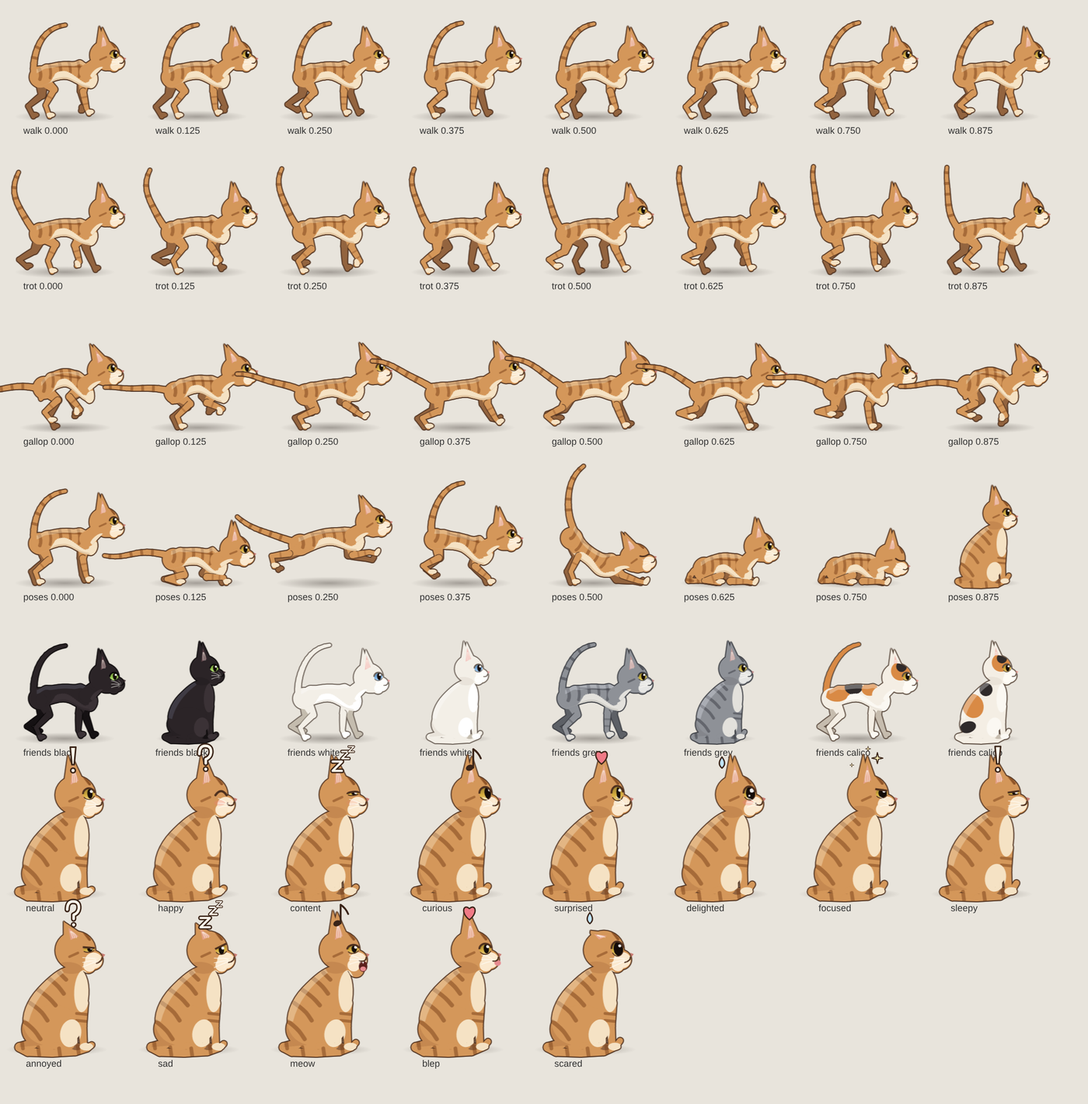
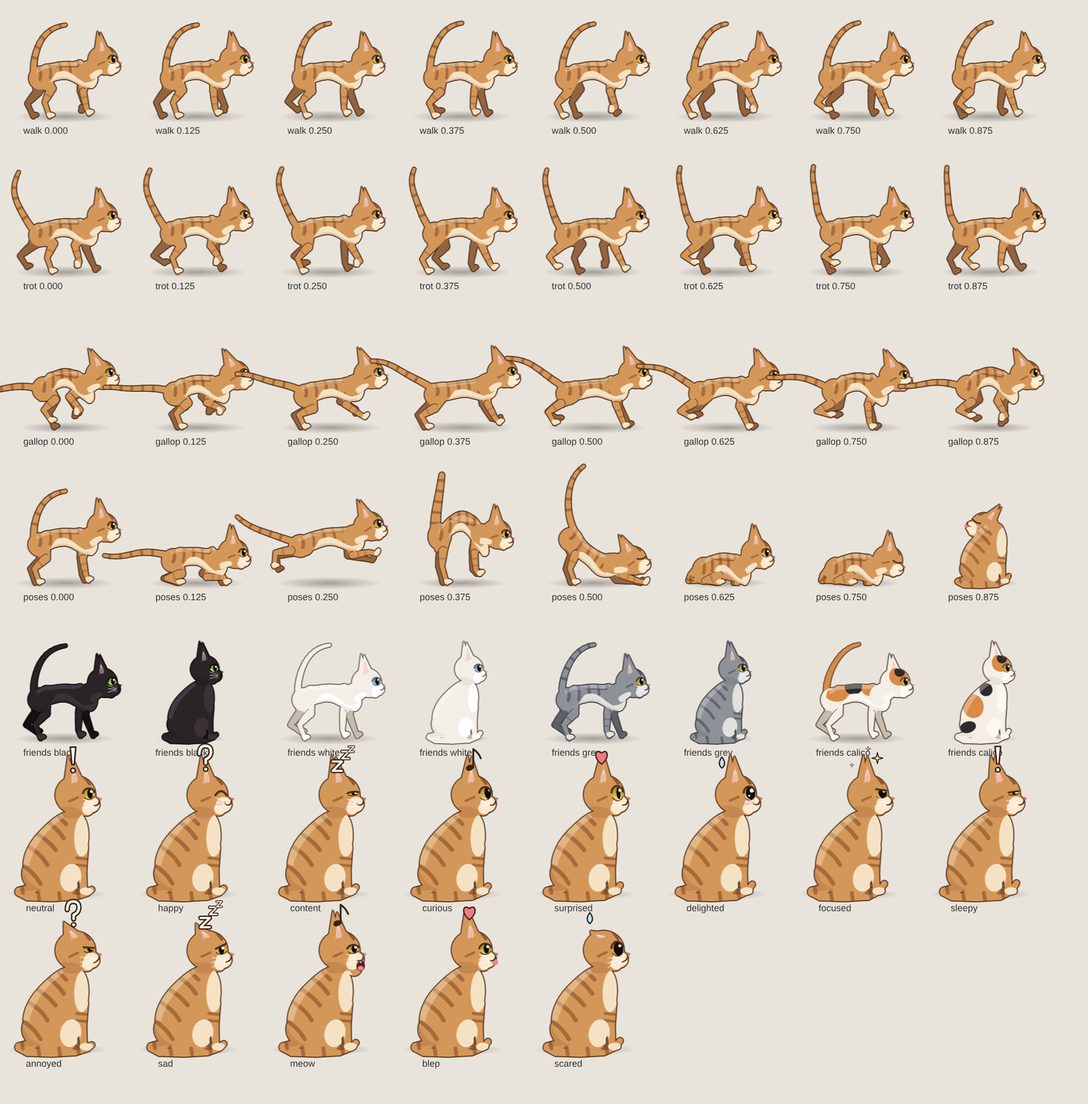
Cat: natural hind leg (knee tucked, high hock), head on the shoulders, no cheek tufts; tucked-paw loaf and grooming
- Hind leg: thigh 17.5 painted with the body, shin 19, hock ~17.5 up with a
  near-vertical metatarsal, slightly bigger haunch; no more bird-like Z leg.
- Head sits 20% closer to the withers (headPos3), thicker neck.
- Head model: cheek fur tufts removed, smaller muzzle/chin, features moved in.
- LOAFT3/SLEEPT3: loaf with the front paws folded under the chest (Qimei, ending).
- groom3(): head turns back over the shoulder (turn up to 2) and licks the flank
  (Alishan, Sun Moon Lake, Shengxing interlude).

Claude-Session: https://claude.ai/code/session_01VPbtjPGy5UqvDX4Qc8aXKN

diff --git a/src/cat3.js b/src/cat3.js
@@ -28,6 +28,9 @@ const LOAF3 = { ...STAND3, g: 1.12, hip: [-30, -17], sh: [24, -19], arch: 5, hea
 const SCARED3 = { ...STAND3, g: 1.14, hip: [-28, -60], sh: [26, -58], arch: 15, head: [50, -60], hr: 0.12, fn: [24, 0, -0.3], ff: [18, 0, -0.3], hn: [-22, 0, 0], hf: [-28, 0, 0], tail: [-1.62, 0.02, 0.03, 9, 0], tailW: 1.7, sb: 1, hb: 1 };
 /* reared up on the hind legs, forepaws raised */
 const REAR3 = { ...STAND3, hip: [-24, -40], sh: [10, -84], arch: -3, head: [26, -108], hr: -0.35, fn: [40, -112, -1], ff: [34, -104, -1], hn: [-14, 0, 0.9], hf: [-20, 0, 0.9], tail: [-2.8, -0.12, 0.08, 3, 0], sb: 1, hb: 1 };
+/* loaf with the front paws folded under the chest (香箱座り) */
+const LOAFT3 = { ...LOAF3, g: 1.14, sh: [22, -18], head: [44, -40], fn: [14, 0, 1], ff: [10, 0, 1], tuck: 1 };
+const SLEEPT3 = { ...LOAFT3, head: [42, -30], hr: 0.25, eye: 0, ear: 0.15, tail: [2.95, -0.36, 0.03, 0.7, 1] };
 const SLEEP3 = { ...LOAF3, head: [44, -28], hr: 0.25, eye: 0, ear: 0.15, tail: [2.95, -0.36, 0.03, 0.7, 1] };
 
 /* Walk (lateral sequence) and trot (diagonal pairs). Stance feet move back at exactly the body speed (walkCyc3), so
@@ -87,7 +90,9 @@ function gallopPose3(cyc) {
 function gallopCyc3(dist, s) { return dist / (GLC * s * SPX); }
 /* rig poses are authored long; they are drawn compressed along x by SPX for a compact, cat-like torso */
 const SPX = 0.86;
-function squashX(p) { if (p.sit) return p; const q = { ...p }; ['hip', 'sh', 'head'].forEach(k => q[k] = [p[k][0] * SPX, p[k][1]]); ['fn', 'ff', 'hn', 'hf'].forEach(k => q[k] = [p[k][0] * SPX, p[k][1], p[k][2]]); return q; }
+/* the head sits low on the shoulders (no giraffe neck): 20% closer to the withers than authored */
+function headPos3(p) { const sx = p.sh[0] * SPX, hx = p.head[0] * SPX; return [lerp(sx, hx, 0.8) + 2, lerp(p.sh[1], p.head[1], 0.8) + 2]; }
+function squashX(p) { if (p.sit) return p; const q = { ...p }; ['hip', 'sh'].forEach(k => q[k] = [p[k][0] * SPX, p[k][1]]); q.head = headPos3(p); ['fn', 'ff', 'hn', 'hf'].forEach(k => q[k] = [p[k][0] * SPX, p[k][1], p[k][2]]); return q; }
 
 function bodyGeom3(p) {
   const H = p.hip, Sh = p.sh, dx = Sh[0] - H[0], dy = Sh[1] - H[1], L = Math.hypot(dx, dy), t = [dx / L, dy / L], n = [t[1], -t[0]];
@@ -121,15 +126,15 @@ function fore3(B, tg, part = 3) {
 }
 function hind3(B, tg, part = 3) {
   const f = tg[2], toe = [tg[0], tg[1]];
-  const off = f <= 1 ? lp([-5, -14], [-12, -8], clamp(f)) : lp([-12, -8], [-19, -3], clamp(f - 1));
+  const off = f <= 1 ? lp([-6, -17.5], [-13, -10], clamp(f)) : lp([-13, -10], [-19, -3], clamp(f - 1));
   const root = [B.H[0] - B.t[0] * 1 - B.n[0] * 3, B.H[1] - B.t[1] * 1 - B.n[1] * 3];
-  const hk = reach(root, [toe[0] + off[0], toe[1] + off[1]], 42), kn = ik(root, hk, 20.5, 22, 1);
-  if (part & 1) limbSeg(root, kn, 14, 8.8, 1.5);
-  if (part & 2) { limbSeg(kn, hk, 7.4, 5.2, 1); taper(hk, toe, 5.2, 4.9); c.beginPath(); c.ellipse(toe[0] + 1.5, toe[1] - 2.1, 5.1, 2.8, 0, 0, TAU); c.fill(); }
+  const hk = reach(root, [toe[0] + off[0], toe[1] + off[1]], 36.4), kn = ik(root, hk, 17.5, 19, 1);
+  if (part & 1) limbSeg(root, kn, 22, 10.5, 3);
+  if (part & 2) { limbSeg(kn, hk, 9.5, 5.6, 2.2); taper(hk, toe, 5.4, 4.8); c.beginPath(); c.ellipse(toe[0] + 1.5, toe[1] - 2.1, 5.1, 2.8, 0, 0, TAU); c.fill(); }
   return { root, kn, hk, toe };
 }
-function hind3Geom(B, tg) { const f = tg[2], toe = [tg[0], tg[1]], off = f <= 1 ? lp([-5, -14], [-12, -8], clamp(f)) : lp([-12, -8], [-19, -3], clamp(f - 1));
-  const root = [B.H[0] - B.t[0] * 1 - B.n[0] * 3, B.H[1] - B.t[1] * 1 - B.n[1] * 3], hk = reach(root, [toe[0] + off[0], toe[1] + off[1]], 42); return { root, kn: ik(root, hk, 20.5, 22, 1), hk }; }
+function hind3Geom(B, tg) { const f = tg[2], toe = [tg[0], tg[1]], off = f <= 1 ? lp([-6, -17.5], [-13, -10], clamp(f)) : lp([-13, -10], [-19, -3], clamp(f - 1));
+  const root = [B.H[0] - B.t[0] * 1 - B.n[0] * 3, B.H[1] - B.t[1] * 1 - B.n[1] * 3], hk = reach(root, [toe[0] + off[0], toe[1] + off[1]], 36.4); return { root, kn: ik(root, hk, 17.5, 19, 1), hk }; }
 function tail3(B, p) {
   const [ba, curl, amp, fq, ground] = p.tail, base = B.at(-0.18, 6), pts = [base], ph = p.tailPh != null ? p.tailPh : T * fq; let a = ba;
   for (let k = 0; k < 12; k++) { a += curl + amp * Math.sin(ph - k * 0.55) * (0.3 + k / 12); const q = pts[pts.length - 1]; let nx = q[0] + Math.cos(a) * 6.6, ny = q[1] + Math.sin(a) * 6.6; if (ground) ny = Math.min(ny, -3); pts.push([nx, ny]); }
@@ -140,7 +145,7 @@ function tail3(B, p) {
    pose.turn = 0 → profile (looking along the body, +x), 1 → facing the camera. Head coords: x = across the face
    (viewer's right when facing the camera), y down, z forward (nose). Units match the old profile head. */
 function headView(p) {
-  const tn = clamp(p.turn || 0), ph = (1 - tn) * 0.45 * Math.PI, cs = Math.cos(ph), sn = Math.sin(ph);
+  const tn = clamp(p.turn || 0, 0, 2), ph = (1 - tn) * 0.45 * Math.PI, cs = Math.cos(ph), sn = Math.sin(ph);
   return { tn, cs, sn, pr: (x, y, z) => [z * sn + x * cs, y], d: (x, z) => z * cs - x * sn };
 }
 /* ear triangle for side s (±1): ear > 0 swivels back, < 0 pricks forward; earDown flattens it sideways */
@@ -154,11 +159,10 @@ function earGeo(H, p, s) {
 function headPath(H, p) {
   const sk = H.pr(0, -2, 0), w = Math.hypot(12 * H.cs, 11.5 * H.sn);
   c.beginPath(); c.ellipse(sk[0], sk[1], w, 11, 0, 0, TAU);
-  [-1, 1].forEach(s => { const q = H.pr(s * 8, 3.4, 2.4); c.moveTo(q[0] + 6.6, q[1]); c.arc(q[0], q[1], 6.6, 0, TAU);
-    const t1 = H.pr(s * 14.2, 4.6, -0.5), t2 = H.pr(s * 11.4, 0.6, 1.2), t3 = H.pr(s * 11.8, 8.4, 0.8); c.moveTo(t1[0], t1[1]); c.lineTo(t2[0], t2[1]); c.lineTo(t3[0], t3[1]); c.closePath(); });
-  const mz = H.pr(0, 3.6, 10.2), ch = H.pr(0, 6.8, 7.6);
-  c.moveTo(mz[0] + 5.6, mz[1]); c.arc(mz[0], mz[1], 5.6, 0, TAU); c.moveTo(ch[0] + 4.2, ch[1]); c.arc(ch[0], ch[1], 4.2, 0, TAU);
-  if ((p.mouth || 0) > 0.05) { const j = H.pr(0, 6.4 + 3.6 * p.mouth, 9.6); c.moveTo(j[0] + 4.4, j[1]); c.arc(j[0], j[1], 4.4, 0, TAU); }
+  [-1, 1].forEach(s => { const q = H.pr(s * 7.6, 3.2, 2.6); c.moveTo(q[0] + 6.4, q[1]); c.arc(q[0], q[1], 6.4, 0, TAU); });
+  const mz = H.pr(0, 3.3, 9), ch = H.pr(0, 6.2, 6.6);
+  c.moveTo(mz[0] + 5, mz[1]); c.arc(mz[0], mz[1], 5, 0, TAU); c.moveTo(ch[0] + 3.8, ch[1]); c.arc(ch[0], ch[1], 3.8, 0, TAU);
+  if ((p.mouth || 0) > 0.05) { const j = H.pr(0, 5.8 + 3.6 * p.mouth, 8.4); c.moveTo(j[0] + 4.2, j[1]); c.arc(j[0], j[1], 4.2, 0, TAU); }
 }
 function headSil(p, P, hd, sc) {
   const H = headView(p);
@@ -178,18 +182,19 @@ function drawRig(p, P, k, fx) {
   if (P.stripe) { c.save(); c.globalCompositeOperation = 'source-atop'; c.strokeStyle = P.stripe; c.lineCap = 'round'; c.lineWidth = 3.4;
     for (let j = 3; j < tp.length - 1; j += 2) { const q = tp[j], r = tp[j + 1], nx = -(r[1] - q[1]), ny = r[0] - q[0], l = Math.hypot(nx, ny) || 1; c.beginPath(); c.moveTo(q[0] + nx / l * 5, q[1] + ny / l * 5); c.lineTo(q[0] - nx / l * 5, q[1] - ny / l * 5); c.stroke(); }
     c.restore(); }
+  if (p.tuck > 0.5) { c.fillStyle = P.base; fore3(B, p.fn, 2); }
   c.fillStyle = P.base; smoothClosed(B.pts); c.fill();
   // the haunch belongs to the body silhouette: a rounded rump that follows the near thigh, no separate outline
   const hk0 = hind3Geom(B, p.hn), ha = Math.atan2(B.t[1], B.t[0]), sw = [(hk0.kn[0] - hk0.root[0]) * 0.12, (hk0.kn[1] - hk0.root[1]) * 0.08];
-  const hc = [B.H[0] - B.t[0] * 4 + sw[0], B.H[1] - B.t[1] * 4 + sw[1]];
-  const haunch = () => { c.beginPath(); c.ellipse(hc[0], hc[1], 13.5, 13.2 * (p.g || 1), ha, 0, TAU); };
+  const hc = [B.H[0] - B.t[0] * 4 - B.n[0] * 1.5 + sw[0], B.H[1] - B.t[1] * 4 - B.n[1] * 1.5 + sw[1]];
+  const haunch = () => { c.beginPath(); c.ellipse(hc[0], hc[1], 14, 14.2 * (p.g || 1), ha, 0, TAU); };
   haunch(); c.fill(); hind3(B, p.hn, 1); fore3(B, p.fn, 1);
   c.save(); smoothClosed(B.pts); c.clip(); shadeBody3(B, p, P); c.restore();
   // near legs on their own layer
   const g3 = CB3.getContext('2d'); g3.setTransform(1, 0, 0, 1, 0, 0); g3.globalCompositeOperation = 'source-over'; g3.clearRect(0, 0, CBW, CBH); g3.setTransform(k * fx, 0, 0, k, COX, COY);
   c = g3; c.fillStyle = P.base;
   const hl = hind3(B, p.hn, 2);
-  const fl = fore3(B, p.fn, 2);
+  const fl = p.tuck > 0.5 ? fore3(B, p.fn, 0) : fore3(B, p.fn, 2);
   shadeLegs3(B, hl, fl, p, P);
   // inner contour: ring around the near lower legs, kept only where they cross a far leg (never against the body)
   const g4 = CB4.getContext('2d'), iw = Math.max(0.8, 0.95 * S);
@@ -201,11 +206,11 @@ function drawRig(p, P, k, fx) {
   c = main; c.save(); c.setTransform(1, 0, 0, 1, 0, 0); c.drawImage(CB4, 0, 0); c.drawImage(CB3, 0, 0); c.restore();
   // neck + head
   const nb = B.at(1.0, 2), hd = p.head, ne = [lerp(nb[0], hd[0], 0.8), lerp(nb[1], hd[1], 0.8)];
-  c.fillStyle = P.base; taper(nb, ne, 19, 15);
+  c.fillStyle = P.base; taper(nb, ne, 25, 21);
   headSil(p, P, hd, HSR);
   // cream throat, clipped to the neck
   c.save(); const dx = ne[0] - nb[0], dy = ne[1] - nb[1], L = Math.hypot(dx, dy) || 1, nx = -dy / L, ny = dx / L;
-  c.beginPath(); c.moveTo(nb[0] + nx * 9.5, nb[1] + ny * 9.5); c.lineTo(ne[0] + nx * 7.5, ne[1] + ny * 7.5); c.lineTo(ne[0] - nx * 7.5, ne[1] - ny * 7.5); c.lineTo(nb[0] - nx * 9.5, nb[1] - ny * 9.5); c.closePath(); c.clip();
+  c.beginPath(); c.moveTo(nb[0] + nx * 12.5, nb[1] + ny * 12.5); c.lineTo(ne[0] + nx * 10.5, ne[1] + ny * 10.5); c.lineTo(ne[0] - nx * 10.5, ne[1] - ny * 10.5); c.lineTo(nb[0] - nx * 12.5, nb[1] - ny * 12.5); c.closePath(); c.clip();
   c.fillStyle = P.cream; const tq = [lerp(nb[0], ne[0], 0.4) + nx * 8, lerp(nb[1], ne[1], 0.4) + ny * 8]; c.beginPath(); c.ellipse(tq[0], tq[1], 10, 4, Math.atan2(dy, dx), 0, TAU); c.fill();
   c.restore();
   return { B, tp, hl, fl };
@@ -257,7 +262,8 @@ function silSit(p, P) {
   if (p.paw) { const sh0 = [14, -40], W2 = reach(sh0, [p.paw[0], p.paw[1]], 36), el = ik(sh0, W2, 17, 19, p.paw[1] < -40 ? 1 : -1); taper(sh0, el, 11, 7.5); taper(el, W2, 7.5, 6); c.beginPath(); c.ellipse(W2[0] + 1, W2[1], 5.4, 3.6, -0.6, 0, TAU); c.fill(); pawPt = W2; }
   else { taper([14, -40], [14, -20], 10, 7); taper([14, -20], [15, -4], 7, 6); c.beginPath(); c.ellipse(17, -2.5, 5.4, 3.1, 0, 0, TAU); c.fill(); }
   c.beginPath(); c.ellipse(-3, -3, 10, 3.8, 0, 0, TAU); c.fill();
-  const hd = [8, -82 - br];
+  const hd = [8 + (p.hdx || 0), -82 - br + (p.hdy || 0)];
+  if (p.hdx || p.hdy) { taper([6, -64], [lerp(8, hd[0], 0.7), lerp(-70, hd[1], 0.7)], 20, 16); }
   headSil(p, P, hd, HSS);
   return { body, hd, pawPt };
 }
@@ -339,31 +345,31 @@ function face3(P, p, sil) {
     if (P.stripe) { c.strokeStyle = P.stripe; c.lineCap = 'round'; c.lineWidth = 1.4;
       [-1, 0, 1].forEach(k => { if (H.d(k * 2.4, 7) < -1) return; const a = H.pr(k * 2.7, -12.4, 5.2), b = H.pr(k * 2.1, -8.2, 8.4); c.beginPath(); c.moveTo(a[0], a[1]); c.lineTo(b[0], b[1]); c.stroke(); });
       [-1, 1].forEach(s => { if (H.d(s, 0.2) < 0) return; const a = H.pr(s * 9.6, -0.6, 3), b = H.pr(s * 12.2, 1.6, -1.5); c.beginPath(); c.moveTo(a[0], a[1]); c.lineTo(b[0], b[1]); c.stroke(); }); }
-    const mz = H.pr(0, 3.8, 10.6), ch = H.pr(0, 6.6, 8.2); c.fillStyle = P.belly; c.beginPath(); c.ellipse(mz[0], mz[1], 5.2 * (0.8 + 0.2 * front) + 0.6, 4.6, 0, 0, TAU); c.moveTo(ch[0] + 3.6, ch[1]); c.arc(ch[0], ch[1], 3.6, 0, TAU); c.fill();
-    if (q.blush > 0) [-1, 1].forEach(s => { if (H.d(s * 0.6, 0.8) <= 0) return; const b = H.pr(s * 7.2, 2.6, 8.2); c.fillStyle = `rgba(240,120,120,${0.42 * q.blush})`; c.beginPath(); c.ellipse(b[0], b[1], 3.6 * (0.5 + 0.5 * clamp(H.d(s * 0.6, 0.8))), 1.6, 0, 0, TAU); c.fill(); });
+    const mz = H.pr(0, 3.5, 9.4), ch = H.pr(0, 6, 7.2); c.fillStyle = P.belly; c.beginPath(); c.ellipse(mz[0], mz[1], 4.8 * (0.8 + 0.2 * front) + 0.5, 4.2, 0, 0, TAU); c.moveTo(ch[0] + 3.3, ch[1]); c.arc(ch[0], ch[1], 3.3, 0, TAU); c.fill();
+    if (q.blush > 0) [-1, 1].forEach(s => { if (H.d(s * 0.6, 0.8) <= 0) return; const b = H.pr(s * 7, 2.6, 7.6); c.fillStyle = `rgba(240,120,120,${0.42 * q.blush})`; c.beginPath(); c.ellipse(b[0], b[1], 3.6 * (0.5 + 0.5 * clamp(H.d(s * 0.6, 0.8))), 1.6, 0, 0, TAU); c.fill(); });
     c.restore();
   }
   // eyes
-  const N = H.pr(0, 1.1, 15.6);
+  const N = H.pr(0, 0.8, 13.9);
   [-1, 1].forEach(s => { const fw = H.d(s * 0.55, 0.83); if (fw < 0.05) return; const E = H.pr(s * 5.4, -2.6, 8.7), inner = N[0] >= E[0] ? 1 : -1;
     eye3(E[0], E[1], 3.9 * ES * (0.3 + 0.7 * fw), 2.9 * ES, inner, q, P, sil, H); });
   // mouth (open)
-  if (m > 0.05) { const Mo = H.pr(0, 5.6 + 2.2 * m, 13.6), rx = lerp(2.2, 3.8, front), ry = 0.8 + 3.2 * m;
+  if (m > 0.05) { const Mo = H.pr(0, 5.2 + 2.2 * m, 12.2), rx = lerp(2.2, 3.8, front), ry = 0.8 + 3.2 * m;
     c.fillStyle = '#5a1f1c'; c.beginPath(); c.ellipse(Mo[0], Mo[1], rx, ry, 0, 0, TAU); c.fill();
     c.fillStyle = '#e58a8f'; c.beginPath(); c.ellipse(Mo[0], Mo[1] + ry * 0.45, rx * 0.68, ry * 0.42, 0, 0, TAU); c.fill();
     c.fillStyle = '#ffffff'; [-1, 1].forEach(s => { if (front < 0.3 && s < 0) return; const fx = Mo[0] + s * rx * 0.55 * (front < 0.3 ? 0 : 1); poly([[fx - 0.6, Mo[1] - ry * 0.85], [fx + 0.6, Mo[1] - ry * 0.85], [fx, Mo[1] - ry * 0.4]], '#ffffff'); }); }
-  if (q.tongue > 0) { const tg = H.pr(0, 4.8 + q.tongue, 15); c.fillStyle = '#e58a8f'; c.beginPath(); c.ellipse(tg[0], tg[1], 1.3 + q.tongue * 1.1, 1.2 + q.tongue * 0.9, 0.3 * (1 - front), 0, TAU); c.fill(); }
+  if (q.tongue > 0) { const tg = H.pr(0, 4.4 + q.tongue, 13.4); c.fillStyle = '#e58a8f'; c.beginPath(); c.ellipse(tg[0], tg[1], 1.3 + q.tongue * 1.1, 1.2 + q.tongue * 0.9, 0.3 * (1 - front), 0, TAU); c.fill(); }
   // nose: profile wedge ↔ front inverted triangle
   const ns = lp([[-0.2, -1.6], [1.6, -0.6], [0.6, 1]], [[-1.9, -1.2], [1.9, -1.2], [0, 1]], front);
   poly(ns.map(v => [N[0] + v[0], N[1] + v[1]]), P.nose);
   // mouth line: philtrum + the two halves of the 'ω' (smile curls the corners up, frown pulls them down)
   c.strokeStyle = P.line; c.lineWidth = 0.75; c.lineCap = 'round';
-  const nb = H.pr(0, 2.2, 15.4), ph = H.pr(0, 3.4, 15.1); c.beginPath(); c.moveTo(nb[0], nb[1]); c.lineTo(ph[0], ph[1]); c.stroke();
-  [-1, 1].forEach(s => { if (H.d(s * 3.6, 13) < -1.4) return; const cp = H.pr(s * 1.6, 4.6, 14.4), en = H.pr(s * 3.7, 4.3 + q.frown * 1.4 - q.smile * 0.4, 12.8), cu = H.pr(s * 4.6, 3.2 + q.frown * 2, 12.2);
+  const nb = H.pr(0, 1.9, 13.7), ph = H.pr(0, 3.1, 13.4); c.beginPath(); c.moveTo(nb[0], nb[1]); c.lineTo(ph[0], ph[1]); c.stroke();
+  [-1, 1].forEach(s => { if (H.d(s * 3.6, 11.5) < -1.4) return; const cp = H.pr(s * 1.6, 4.3, 12.8), en = H.pr(s * 3.6, 4 + q.frown * 1.4 - q.smile * 0.4, 11.3), cu = H.pr(s * 4.4, 2.9 + q.frown * 2, 10.7);
     c.beginPath(); c.moveTo(ph[0], ph[1]); c.quadraticCurveTo(cp[0], cp[1], en[0], en[1]); if (q.smile > 0.05) c.quadraticCurveTo(lerp(en[0], cu[0], 0.5), en[1] + 0.2, lerp(en[0], cu[0], 0.9), en[1] - 1.3 * q.smile); c.stroke(); });
   // whiskers: forward/up when interested, drooping when down
   [-1, 1].forEach(s => { const far = H.d(s, 0.5) < 0; c.strokeStyle = sil ? `rgba(255,220,180,${far ? 0.15 : 0.35})` : `rgba(255,252,245,${far ? 0.3 : 0.75})`; c.lineWidth = 0.45;
-    for (let k = 0; k < 3; k++) { const b0 = H.pr(s * 3.6, 3.2 + k * 0.7, 12.6), cp = H.pr(s * 10, 1.6 + k * 1.4 - q.whisk * 1.4, 11.5), en = H.pr(s * 17.5, 0.6 + k * 2.7 - q.whisk * 3 + Math.sin(T * 1.5) * 0.3, 8.5 + q.whisk * 3);
+    for (let k = 0; k < 3; k++) { const b0 = H.pr(s * 3.4, 3 + k * 0.7, 11.2), cp = H.pr(s * 10, 1.4 + k * 1.4 - q.whisk * 1.4, 10), en = H.pr(s * 17.5, 0.4 + k * 2.7 - q.whisk * 3 + Math.sin(T * 1.5) * 0.3, 7.2 + q.whisk * 3);
       c.beginPath(); c.moveTo(b0[0], b0[1]); c.quadraticCurveTo(cp[0], cp[1], en[0], en[1]); c.stroke(); } });
 }
 /* comic marks above the head: '!', '?', 'z', 'note', 'heart', 'drop', 'spark'. u = 0..1 pop-in progress */
@@ -400,7 +406,7 @@ function drawCat3(o) {
     g2.globalCompositeOperation = 'lighter'; g2.globalAlpha = 0.85; g2.drawImage(CB, 0, 0); g2.globalAlpha = 1; g2.globalCompositeOperation = 'source-over'; }
   // face on top
   g2.setTransform(k * (o.face || 1), 0, 0, k, COX, COY); c = g2;
-  const hp = p.sit ? [8, -82 - Math.sin(T * 1.7) * 0.6] : p.head, fp = (p.eye ?? 1) > 0.3 && !p.happy && !o.noBlink && blinkAt(T, (o.bseed || 0) + 0.37) ? { ...p, eye: 0 } : p;
+  const hp = p.sit ? [8 + (p.hdx || 0), -82 - Math.sin(T * 1.7) * 0.6 + (p.hdy || 0)] : p.head, fp = (p.eye ?? 1) > 0.3 && !p.happy && !o.noBlink && blinkAt(T, (o.bseed || 0) + 0.37) ? { ...p, eye: 0 } : p;
   c.save(); c.translate(hp[0], hp[1]); c.rotate(p.hr || 0); c.scale(p.sit ? HSS : HSR, p.sit ? HSS : HSR); face3(P, fp, o.sil); c.restore();
   c = prev; g2.setTransform(1, 0, 0, 1, 0, 0);
   // composite into scene

diff --git a/src/actions3.js b/src/actions3.js
@@ -2,6 +2,9 @@
    notices something in the scene, reacts (expression + optional comic mark), interacts with it, then settles.
    Timing is in scene-local seconds (lt); props the cat touches are drawn here so they stay in sync with it. */
 function sit3(lt, o = {}) { return { ...SITP, ...o }; }
+/* grooming: sitting cat turns its head back over the shoulder and licks its flank with long tongue strokes */
+function groom3(lt, t0, t1, o = {}) { const u = sm((lt - t0) / 0.5) * (1 - sm((lt - t1 + 0.5) / 0.5)), lick = Math.max(0, Math.sin((lt - t0) * 7)), stroke = Math.sin((lt - t0) * 7 - 0.6);
+  return { ...ex('content'), ...o, sit: 1, ts: o.ts ?? 1.1, eye: u > 0.5 ? 0 : undefined, turn: 2 * u, hdx: -17 * u, hdy: (17 + stroke * 2.5) * u, hr: (0.55 + stroke * 0.12) * u, tongue: u > 0.6 ? 0.25 + 0.75 * lick : 0 }; }
 function cross(qa, qb, u) { if (u <= 0) return drawCat3(qa); if (u >= 1) return drawCat3(qb); c.save(); c.globalAlpha *= 1 - u; drawCat3({ ...qa, shadow: false, emote: null }); c.restore(); c.save(); c.globalAlpha *= u; drawCat3(qb); c.restore(); }
 function seqWalk(q, x0, sp, t, o = {}) { q.x = x0 + t * sp; q.pose = walkPose3(walkCyc3(t * sp, q.s, o.trot), o); return q; }
 /* expression timeline: [[t0, 'name'], [t1, 'name2'], …] with short cross-fades */
@@ -17,7 +20,7 @@ function emoAt(lt, list) { const q = {}; emo(q, lt, list); return q.emote; }
 function turnAt(lt, list) { let v = 0; for (const [t0, t1, k] of list) v = Math.max(v, (k ?? 1) * sm((lt - t0) / 0.3) * (1 - sm((lt - t1 + 0.3) / 0.3))); return v; }
 const mirrored = () => c.getTransform().d < 0;
 /* world position of the nose tip (for props that land on the cat) */
-function noseW(q) { const p = q.pose, f = q.face || 1, hs = p.sit ? HSS : HSR, h = p.sit ? [8, -82] : [p.head[0] * SPX, p.head[1]], a = p.hr || 0, n = headView(p).pr(0, 1.1, 15.6);
+function noseW(q) { const p = q.pose, f = q.face || 1, hs = p.sit ? HSS : HSR, h = p.sit ? [8 + (p.hdx || 0), -82 + (p.hdy || 0)] : headPos3(p), a = p.hr || 0, n = headView(p).pr(0, 0.8, 13.9);
   return [q.x + f * q.s * (h[0] + hs * (Math.cos(a) * n[0] - Math.sin(a) * n[1])), q.y + q.s * (h[1] + hs * (Math.sin(a) * n[0] + Math.cos(a) * n[1]))]; }
 function pawW(q, k = 'fn') { const p = q.pose, f = q.face || 1; return [q.x + f * q.s * p[k][0] * (p.sit ? 1 : SPX), q.y + q.s * p[k][1]]; }
 /* jump from a to b ([x, y] ground points): 0.22 s crouch before t0, flight t0..t1, 0.25 s landing after */
@@ -230,11 +233,11 @@ function actCat(o) {
     }
     case 8: { // Qimei: the Twin Hearts are where couples come for photos — a calico curls up against our cat; heads together,
       // they gaze at the two stone hearts and doze off side by side.
-      const doze = sm((lt - 3.5) / 1.5), pp = { ...lp(LOAF3, SLEEP3, doze), ...exSeq(lt, [[0, 'content'], [3.4, 'sleepy']]) };
+      const doze = sm((lt - 3.5) / 1.5), pp = { ...lp(LOAFT3, SLEEPT3, doze), ...exSeq(lt, [[0, 'content'], [3.4, 'sleepy']]) };
       pp.eye = doze > 0.5 ? 0 : (lt < 3.4 ? 0.35 : 0.3); pp.ear = Math.max(0, Math.sin(lt * 3.3)) > 0.97 ? 0.45 : pp.ear; pp.hr = (pp.hr || 0) + Math.sin(lt * 0.5) * 0.05;
       emo(q, lt, [[0.6, 2.4, 'heart'], [4.6, 7, 'z']]);
       q.pose = pp; q.y = 546; q.x = 220;
-      const fd = sm((lt - 3.9) / 1.4), fp = { ...lp(LOAF3, SLEEP3, fd), ...exSeq(lt, [[0, 'happy'], [2.2, 'content'], [3.8, 'sleepy']]) };
+      const fd = sm((lt - 3.9) / 1.4), fp = { ...lp(LOAFT3, SLEEPT3, fd), ...exSeq(lt, [[0, 'happy'], [2.2, 'content'], [3.8, 'sleepy']]) };
       fp.eye = fd > 0.5 ? 0 : 0.4; fp.hr = (fp.hr || 0) + 0.12 + Math.sin(lt * 0.6 + 1) * 0.04; fp.head = [fp.head[0] + 2, fp.head[1] + 3];
       const fq = { x: 124, y: 538, s: s * 0.92, coat: 'calico', bseed: 8, pose: fp };
       emo(fq, lt, [[2.0, 3.6, 'heart'], [5.1, 7, 'z']]);
@@ -255,7 +258,7 @@ function actCat(o) {
       const tx = 1100 - lt * 40, y = sm((lt - 3.6) / 0.4) * (1 - sm((lt - 4.7) / 0.5)), turn = sm((lt - 2.1) / 0.3) * (1 - sm((lt - 3.3) / 0.4));
       q.after = () => { if (lt > 1.9 && lt < 3.4) { puff(tx + 6, 520, (lt - 1.9) / 1.5, 0.8); emote3('note', tx + 30, 500, 0.9, clamp((lt - 2.0) / 0.35), 1 - sm((lt - 3.0) / 0.3)); } };
       emo(q, lt, [[2.15, 2.9, '!', 0.9]]);
-      q.pose = sit3(lt, { ...exSeq(lt, [[0, 'content'], [2.1, 'surprised'], [3.3, 'neutral'], [4.8, 'content']]), hr: lerp(-0.1, 0.18, turn) + lerp(0, -0.6, y), mouth: y, eye: y > 0.3 ? 0 : undefined, ear: turn > 0.1 ? -0.3 : 0, seed: 9 }); break;
+      q.pose = lt > 4.8 ? sit3(lt, groom3(lt, 4.85, 7.2, { seed: 9 })) : sit3(lt, { ...exSeq(lt, [[0, 'content'], [2.1, 'surprised'], [3.3, 'neutral'], [4.8, 'content']]), hr: lerp(-0.1, 0.18, turn) + lerp(0, -0.6, y), mouth: y, eye: y > 0.3 ? 0 : undefined, ear: turn > 0.1 ? -0.3 : 0, seed: 9 }); break;
     }
     case 11: { // Hinoki Village (people come to stroll the Japanese-era houses in yukata): big stretch, sniff and cheek-rub the cypress post,
       // then a tuxedo cat napping on the porch wakes up — a nose boop, the cat way of saying hello.
@@ -298,7 +301,7 @@ function actCat(o) {
       q.after = () => { if (lt > 0.5 && lt < 5) dragonfly(dx, dy, 1.1, lt, lt < 2.0 || lt > 3.3 ? 1 : -1); };
       const swat = bumpT(lt, 3.05, 3.45), ph = lt * 4.5, a = 0.5 + 0.5 * Math.sin(ph);
       if (lt < 3.6) q.pose = sit3(lt, { ...exSeq(lt, [[0, 'content'], [1.2, 'curious'], [3.3, 'surprised']]), look: lt > 1.6 ? [1.2, 0.2] : [0.4, -0.2], hr: lt > 1.6 && lt < 3.3 ? -0.08 + Math.sin(lt * 2) * 0.05 : -0.05, paw: swat > 0.02 ? [lerp(16, 34, swat), lerp(-10, -84, swat), 1] : null });
-      else if (lt < 5.2) q.pose = sit3(lt, { ...ex('content'), eye: 0, hr: 0.15 + a * 0.25, paw: [22 + a * 4, -86 + a * 8, 1] });
+      else if (lt < 5.2) q.pose = sit3(lt, groom3(lt, 3.55, 5.35));
       else q.pose = sit3(lt, { ...ex('blep'), eye: 0.7, turn: turnAt(lt, [[5.2, 7, 1]]) });
       break;
     }
@@ -400,7 +403,7 @@ function actCat(o) {
     case 22: { // home: walks in, looks up at the city lights one more time, curls up, falls asleep — and dreams of the friends it made
       emo(q, lt, [[2.6, 3.8, 'heart'], [5.4, 6.1, 'z']]);
       if (lt < 2.4) { seqWalk(q, 250, 30, lt); Object.assign(q.pose, ex('content', 0.7)); return drawCat3(q); }
-      const x = 250 + 2.4 * 30, lk = sm((lt - 2.4) / 0.4), sl = sm((lt - 4.2) / 2.5), pp = { ...lp(LOAF3, SLEEP3, sl), ...exSeq(lt, [[3.6, 'content'], [4.8, 'sleepy'], [6.4, 'content']]) };
+      const x = 250 + 2.4 * 30, lk = sm((lt - 2.4) / 0.4), sl = sm((lt - 4.2) / 2.5), pp = { ...lp(LOAFT3, SLEEPT3, sl), ...exSeq(lt, [[3.6, 'content'], [4.8, 'sleepy'], [6.4, 'content']]) };
       pp.eye = lt > 5.4 ? 0 : (lt > 4.8 ? 0.3 : 0.4);
       cross({ ...q, x, pose: { ...STAND3, ...ex('happy'), hr: -0.25 * lk, head: [56, -74], turn: turnAt(lt, [[2.5, 4.2, 0.55]]) } }, { ...q, x: x + 10, emote: q.emote, pose: pp }, sm((lt - 3.6) / 0.5));
       const du = clamp((lt - 6.0) / 2.2) * (1 - sm((lt - 8.7) / 0.5)); dreamBubble(x + 10 + 40 * q.s, q.y - 66 * q.s, 1.35, du);

diff --git a/src/transitions.js b/src/transitions.js
@@ -181,7 +181,7 @@ V('T15', '苗栗縣 · 三義', '勝興車站', 'Shengxing Station', '24.39°N 1
     poly([[x - 30, y - 118], [x + 60, y - 190], [x + 320, y - 190], [x + 410, y - 118]], '#3d3f45'); for (let k = 0; k < 24; k++) line(x - 20 + k * 18, y - 120, x + 60 + k * 11, y - 188, 'rgba(20,20,25,0.45)', 1);
     c.fillStyle = '#ffffff'; c.fillRect(x + 140, y - 160, 100, 26); c.fillStyle = '#222'; c.font = `700 18px ${FONTS}`; c.textAlign = 'center'; c.fillText('勝 興 驛', x + 190, y - 141);
     c.fillStyle = vg(y, H, [[0, '#9b9488'], [1, '#6a645a']]); c.fillRect(-M, y, W + 2 * M, 200); c.fillStyle = '#4a443e'; c.fillRect(-M, 572, W + 2 * M, 6); c.fillRect(-M, 590, W + 2 * M, 6); for (let k = 0; k < 40; k++) c.fillRect(-M + k * 40, 570, 18, 28); c.fillStyle = '#cfc8b8'; c.fillRect(-M, 540, W + 2 * M, 22); });
-  D(0.45, () => drawCat3({ x: 320, y: 548, s: 1.0, pose: sit3(lt, { ...exSeq(lt, [[0, 'content'], [2, 'curious']]), hr: lt > 2 ? 0.25 : -0.1, ts: 1.4 }), emote: emoAt(lt, [[2.1, 3.3, 'note']]) }));
+  D(0.45, () => drawCat3({ x: 320, y: 548, s: 1.0, pose: lt < 2.1 ? sit3(lt, groom3(lt, 0.1, 2.15)) : sit3(lt, { ...exSeq(lt, [[0, 'content'], [2, 'curious']]), hr: lt > 2 ? 0.25 : -0.1, ts: 1.4 }), emote: emoAt(lt, [[2.2, 3.4, 'note']]) }));
 });
 /* T16 客家茶園 */
 V('T16', '新竹縣 · 峨眉', '客家茶園', 'Hakka tea hills', '24.69°N 121.01°E', ['客家的茶山，一排一排綠到天邊。', 'Hakka tea hills — row after row, green all the way to the sky.'], [1.03, 1.07, 30, -30, 0, 0], function (lt) {

diff --git a/docs/STORYBOARD.md b/docs/STORYBOARD.md
@@ -22,11 +22,11 @@
 | 13 | 66.6 | 3.6 | 轉場 `T6` | 屏東 → 高雄・高屏溪斜張橋<br><sub>Kao-Ping Hsi Bridge · 22.64°N 120.43°E</sub> | 沿堤防散步 | 跨過高屏溪，就到高雄了。 | 承 |
 | 14 | 70.2 | 6 | 主景 `L7` | 高雄市・蓮池潭龍虎塔<br><sub>Dragon & Tiger Pagodas · 22.68°N 120.29°E</sub> | 走九曲橋 → 低頭看水（？）→ 鯉魚跳出水面、嚇到炸毛（！）→ 開心看漣漪 | 高雄蓮池潭，從龍口進去，從虎口出來。 | 承 |
 | 15 | 76.2 | 3.6 | 轉場 `T7` | 臺灣海峽・高雄 → 馬公 渡輪<br><sub>Ferry to Penghu · 23.00°N 120.00°E</sub> | 坐在甲板上，被風吹得瞇眼 | 第一次搭船，風好大。 | 承 |
-| 16 | 79.8 | 6 | 主景 `L8` | 澎湖縣・七美雙心石滬<br><sub>Twin Hearts Stone Weir, Qimei · 23.21°N 119.43°E</sub> | **三花貓**依偎過來 → 兩隻一起看雙心石滬（♥ ♥，情侶拍照勝地）→ 吹著風一起睡著（Z） | 坐船到澎湖，海裡有兩顆石頭砌成的心。 | 承 |
+| 16 | 79.8 | 6 | 主景 `L8` | 澎湖縣・七美雙心石滬<br><sub>Twin Hearts Stone Weir, Qimei · 23.21°N 119.43°E</sub> | **三花貓**依偎過來，兩隻都「折手手」香箱坐 → 一起看雙心石滬（♥ ♥，情侶拍照勝地）→ 吹著風一起睡著（Z） | 坐船到澎湖，海裡有兩顆石頭砌成的心。 | 承 |
 | 17 | 85.8 | 3.6 | 轉場 `T8` | 澎湖縣 · 白沙・澎湖跨海大橋<br><sub>Penghu Great Bridge · 23.65°N 119.53°E</sub> | 小跑穿過拱門 | 澎湖跨海大橋，把兩座島連在一起。 | 承 |
 | 18 | 89.4 | 6 | 主景 `L9` | 臺南市・井仔腳瓦盤鹽田<br><sub>Jingzaijiao Tile-Paved Salt Fields · 23.16°N 120.09°E</sub> | 走鹽田堤 → 低頭看自己的倒影（？）→ 拍水、漣漪（！）→ 開心小跑（♪）（含倒影） | 臺南的鹽田，把整片天空收了進來。 | 承 |
 | 19 | 95.4 | 3.6 | 轉場 `T9` | 嘉義縣 · 水上・北回歸線標誌<br><sub>Tropic of Cancer Monument · 23.46°N 120.42°E</sub> | 走到標誌下抬頭看 | 北回歸線上，夏至正午的影子會消失。 | 承 |
-| 20 | 99 | 6 | 主景 `L10` | 嘉義縣・阿里山 · 雲海日出<br><sub>Alishan Sunrise & Sea of Clouds · 23.51°N 120.80°E</sub> | 坐看雲海 → 林鐵鳴笛、耳朵豎起（！）→ 大哈欠 → 滿足 | 嘉義的阿里山，雲海在腳下翻湧。 | 承 |
+| 20 | 99 | 6 | 主景 `L10` | 嘉義縣・阿里山 · 雲海日出<br><sub>Alishan Sunrise & Sea of Clouds · 23.51°N 120.80°E</sub> | 坐看雲海 → 林鐵鳴笛、耳朵豎起（！）→ 大哈欠 → 回頭舔毛 | 嘉義的阿里山，雲海在腳下翻湧。 | 承 |
 | 21 | 105 | 3.6 | 轉場 `T10` | 嘉義縣 · 竹崎・阿里山林鐵 · 獨立山<br><sub>Alishan Forest Railway · 23.48°N 120.60°E</sub> | 坐在林鐵車窗邊 | 林鐵繞著獨立山轉了三圈，才慢慢下山。 | 轉 |
 | 22 | 108.6 | 6 | 主景 `L11` | 嘉義市・檜意森活村<br><sub>Hinoki Village · 23.48°N 120.45°E</sub> | 伸懶腰 → 聞檜木柱、用臉頰蹭（閃光）→ 走廊上午睡的**賓士貓**醒來（！）→ 碰鼻子打招呼（♥ ♥） | 嘉義市的老木屋，還留著檜木的香氣。 | 轉 |
 | 23 | 114.6 | 3.6 | 轉場 `T11` | 嘉義 → 雲林・台灣高鐵<br><sub>Taiwan High Speed Rail · 23.74°N 120.42°E</sub> | 坐在田裡，頭追著高鐵轉 | 高鐵一眨眼就不見了。 | 轉 |
@@ -34,7 +34,7 @@
 | 25 | 124.2 | 3.6 | 轉場 `T12` | 彰化縣・八卦山大佛<br><sub>Great Buddha of Baguashan · 24.08°N 120.55°E</sub> | 沿步道散步 | 八卦山的大佛，在山上看了好久的風景。 | 轉 |
 | 26 | 127.8 | 6 | 主景 `L13` | 彰化縣・彰化扇形車庫<br><sub>Changhua Roundhouse · 24.08°N 120.54°E</sub> | 散步 → 老火車鳴笛噴蒸汽 → 嚇得炸毛跳起（！）→ 氣呼呼（汗滴）→ 繼續走 | 彰化的扇形車庫，老火車在這裡轉個身。 | 轉 |
 | 27 | 133.8 | 3.6 | 轉場 `T13` | 南投縣 · 集集・綠色隧道<br><sub>Jiji Green Tunnel · 23.83°N 120.78°E</sub> | 沿綠色隧道小跑、火車經過 | 集集的樟樹，排成了一條綠色隧道。 | 轉 |
-| 28 | 137.4 | 6 | 主景 `L14` | 南投縣・日月潭<br><sub>Sun Moon Lake · 23.86°N 120.91°E</sub> | 蜻蜓飛到鼻子前、鬥雞眼（？）→ 揮爪 → 蜻蜓飛走（！）→ 假裝沒事洗臉 → 吐舌 | 南投日月潭，湖面靜得像一面鏡子。 | 轉 |
+| 28 | 137.4 | 6 | 主景 `L14` | 南投縣・日月潭<br><sub>Sun Moon Lake · 23.86°N 120.91°E</sub> | 蜻蜓飛到鼻子前、鬥雞眼（？）→ 揮爪 → 蜻蜓飛走（！）→ 假裝沒事回頭舔毛 → 轉向鏡頭吐舌 | 南投日月潭，湖面靜得像一面鏡子。 | 轉 |
 | 29 | 143.4 | 3.6 | 轉場 `T14` | 臺中市 · 南屯・彩虹眷村<br><sub>Rainbow Village · 24.13°N 120.61°E</sub> | 沿彩繪牆散步 | 彩虹眷村，每一面牆都畫滿了顏色。 | 轉 |
 | 30 | 147 | 6 | 主景 `L15` | 臺中市・高美濕地<br><sub>Gaomei Wetlands · 24.31°N 120.55°E</sub> | 和朋友沿著濕地散步看夕陽 → 招潮蟹冒出來，兩隻都嚇一跳（！）→ 湊近聞（？）→ 螃蟹躲回洞，一起繼續走（剪影＋倒影） | 臺中高美濕地，風車慢慢轉著黃昏。 | 轉 |
 | 31 | 153 | 3.6 | 轉場 `T15` | 苗栗縣 · 三義・勝興車站<br><sub>Shengxing Station · 24.39°N 120.78°E</sub> | 坐在月台上 | 勝興車站，舊山線海拔最高的車站。 | 轉 |

diff --git a/CLAUDE.md b/CLAUDE.md
@@ -59,11 +59,11 @@ Inside `draw(lt)` use the layer helpers from `core.js`:
 
 ### The cat (`cat3.js`, `actions3.js`)
 - **Rig**: a pose is plain data — `hip`, `sh` (shoulder), `arch`, `head`, `hr` (head rotation), `turn` (head yaw: 0 profile → 1 facing the camera), four paw targets `fn/ff/hn/hf = [x, y, flex]`, `tail = [baseAngle, curl, waveAmp, waveFreq, onGround]` (+ optional `tailPh` to drive the wave from the gait, `tailW` thickness), `sb`/`hb` (shoulder-blade / hip bump on the topline), `g` (girth), plus the face parameters below. Legs are solved with 2-bone IK. Sitting uses a separate silhouette (`SITP`, `pose.sit = 1`).
-- **Poses**: `STAND3, CROUCH3, LEAP3, LAND3, STRETCH3, LOAF3, SLEEP3, SCARED3` (arched “Halloween cat”), `REAR3`, `SITP`; generators `walkPose3(cycles, {trot, low, ear, eye, hr, tail})` (secondary motion — withers/pelvis height, shoulder-blade bump, head nod — is derived from which legs bear weight) and `gallopPose3(cycles)` (transverse lope; spine length changes ≤ ~11%, never stretch the body). Blend any two rig poses with `lp(a, b, u)`. Sit↔rig can't be blended — use `cross(qa, qb, u)` (a short dissolve).
-- **Compact torso**: rig poses are authored long and drawn compressed along x by `SPX` (`squashX` in `drawCat3`); `walkCyc3`/`gallopCyc3` and `noseW`/`pawW` already account for it. Hind paws stand under the rump (`hn`/`hf` ≈ −38/−44), not under the middle of the body.
+- **Poses**: `STAND3, CROUCH3, LEAP3, LAND3, STRETCH3, LOAF3, SLEEP3, SCARED3` (arched “Halloween cat”), `REAR3`, `LOAFT3`/`SLEEPT3` (loaf with the front paws tucked under the chest — `tuck: 1` draws the near forearm behind the body), `SITP`; `groom3(lt, t0, t1)` (actions3.js) is a sitting overlay that turns the head back over the shoulder (`turn` → 2, `hdx/hdy`) and licks the flank; generators `walkPose3(cycles, {trot, low, ear, eye, hr, tail})` (secondary motion — withers/pelvis height, shoulder-blade bump, head nod — is derived from which legs bear weight) and `gallopPose3(cycles)` (transverse lope; spine length changes ≤ ~11%, never stretch the body). Blend any two rig poses with `lp(a, b, u)`. Sit↔rig can't be blended — use `cross(qa, qb, u)` (a short dissolve).
+- **Compact torso**: rig poses are authored long and drawn compressed along x by `SPX` (`squashX` in `drawCat3`); `walkCyc3`/`gallopCyc3` and `noseW`/`pawW` already account for it. Hind paws stand under the rump (`hn`/`hf` ≈ −38/−44), not under the middle of the body. Hind leg: short broad thigh (17.5) painted with the body, shin 19, long near-vertical metatarsal (hock ≈ 17.5 up) — keep the knee tucked up under the haunch, a low knee + low hock reads as a bird leg. The head sits low on the shoulders (`headPos3` pulls it 20% toward the withers).
 - **No foot sliding**: convert distance to gait cycles with `walkCyc3(dist, scale, trot)` / `gallopCyc3(dist, scale)`. A gallop needs ≈200 px/s to read as running.
 - **Rendering** (`drawRig`): far legs (darker `far` colour) → tail → body, with the **haunch and both near upper limbs painted into the body pass** so stripes and the cream underside run across them → near *lower* legs on their own layer (`CB3`) with a thin inner contour (`CB4`), kept only where it crosses a far leg (`CB5` holds the far legs) → neck and head. Then one outer outline by dilating the silhouette, optional rim light, face on top. Don't draw the thigh as a separate shape (it reads as a drumstick) and don't give limbs their own outlines. The cream belly stops before the haunch.
-- **Head**: a small 3D model (`headView`, `earGeo`, `headPath`: skull, cheeks + fur tufts, muzzle, chin, ears) projected at yaw `turn`; `headSil` fills it into the silhouette and `face3`/`eye3` draw the features, so every expression works in profile, three-quarter and front view. `turnAt(lt, [[t0, t1, amount]])` ramps a look at the camera.
+- **Head**: a small 3D model (`headView`, `earGeo`, `headPath`: skull, cheeks + fur tufts, muzzle, chin, ears) projected at yaw `turn` (0 profile, 1 front, 2 looking back over the shoulder); no cheek tufts — they read as a growth; `headSil` fills it into the silhouette and `face3`/`eye3` draw the features, so every expression works in profile, three-quarter and front view. `turnAt(lt, [[t0, t1, amount]])` ramps a look at the camera.
 - **Expressions**: every face parameter is numeric so they blend — `turn, eye, happy, lid, pupil, look:[x,y], ear, earDown, mouth, smile, frown, tongue, blush, whisk, sparkle, shine`. Presets in `EXPR3` (`happy, content, curious, surprised, delighted, focused, sleepy, annoyed, sad, meow, blep, scared`); use `{...pose, ...ex('happy')}`, `exMix(a, b, u)` or a timeline `exSeq(lt, [[t0,'curious'], [t1,'happy']])`. Blinking is automatic (`noBlink: true` to disable).
 - **Other cats**: `drawCat3({ ..., coat: 'black' | 'white' | 'grey' | 'calico' | 'tuxedo' })` uses `COATS[coat]` (patches via `patches`/`sitPatches`/`headPatches`). Friends are drawn inside the landmark's `actCat` case (in `q.before`/`q.after`) so they share its timing and are mirrored into reflections with it. `dreamBubble()` shows all five at the end.
 - **Comic marks**: `emote3(kind, …)` draws `! ? z note heart drop spark` above the head; set `q.emote` via `emo(q, lt, [[t0, t1, kind]])` or `emoAt(lt, list)`. They are skipped in mirrored (reflection) draws.

diff --git a/docs/CHANGELOG.md b/docs/CHANGELOG.md
@@ -1,6 +1,8 @@
 # 版本紀錄 Changelog
 
 ## v4.1
+- **新動作**：「折手手」的香箱坐（前腳收在胸口下，七美和三花一起趴、結尾睡覺）；用舌頭梳理身體（頭轉向後方舔側腹：阿里山、日月潭、勝興車站）。
+- **後腳再修正**：大腿短而寬、膝蓋收在臀部下，小腿變短、跗關節抬高到約三分之一腿高，腳掌以下近乎垂直，不再像鳥腿。頭貼近肩膀，脖子不再細長。臉頰的毛簇移除，口鼻變小，側面不再有凸出的一塊。
 - **頭可以轉向鏡頭**：頭部改成小型 3D 模型（頭骨、臉頰毛、口鼻、下巴、耳朵），可以從側面平順轉到正面；所有表情在側面、3/4、正面都能用。在醒來、坐上繫船柱、蝴蝶停鼻子、被汽笛嚇到後、吐舌、打噴嚏、眼睛反光、搭火車與飛機看窗外、快到家時看向鏡頭。
 - **身體更自然**：軀幹縮短約 14%，胸口深、腰身收、臀部圓；後腳移到臀部下方；腿與尾巴更細，頭更大、脖子更細。
 - **前腳接身體的線條拿掉**：內線只留在近側腳和遠側腳交疊的地方。
